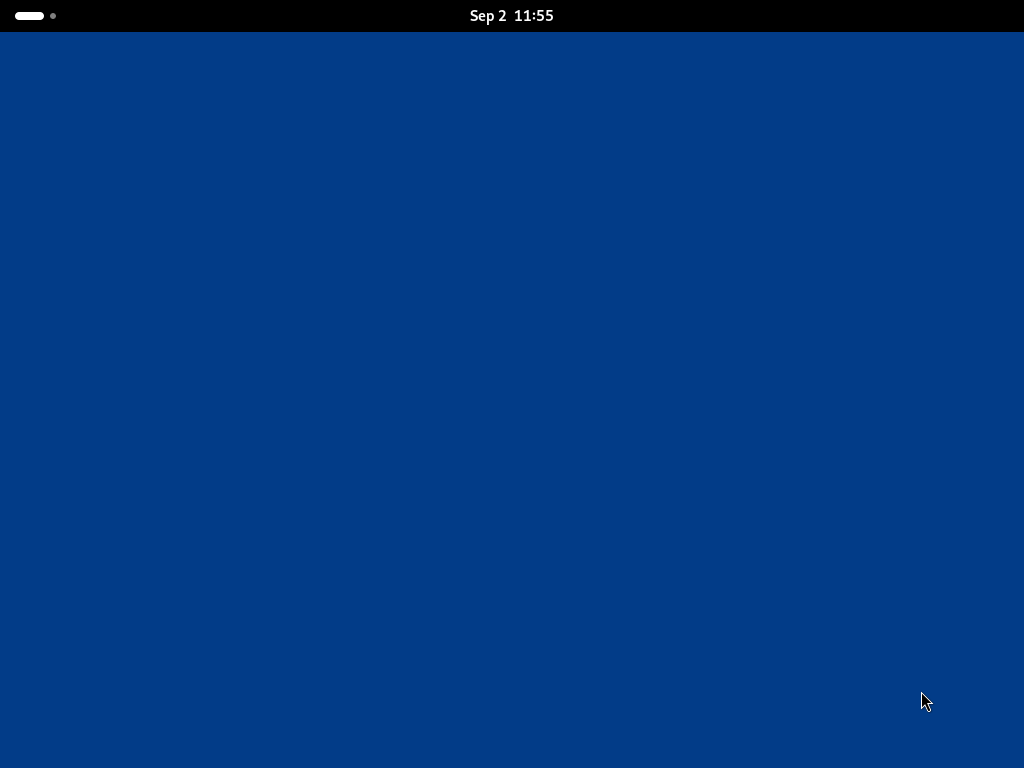
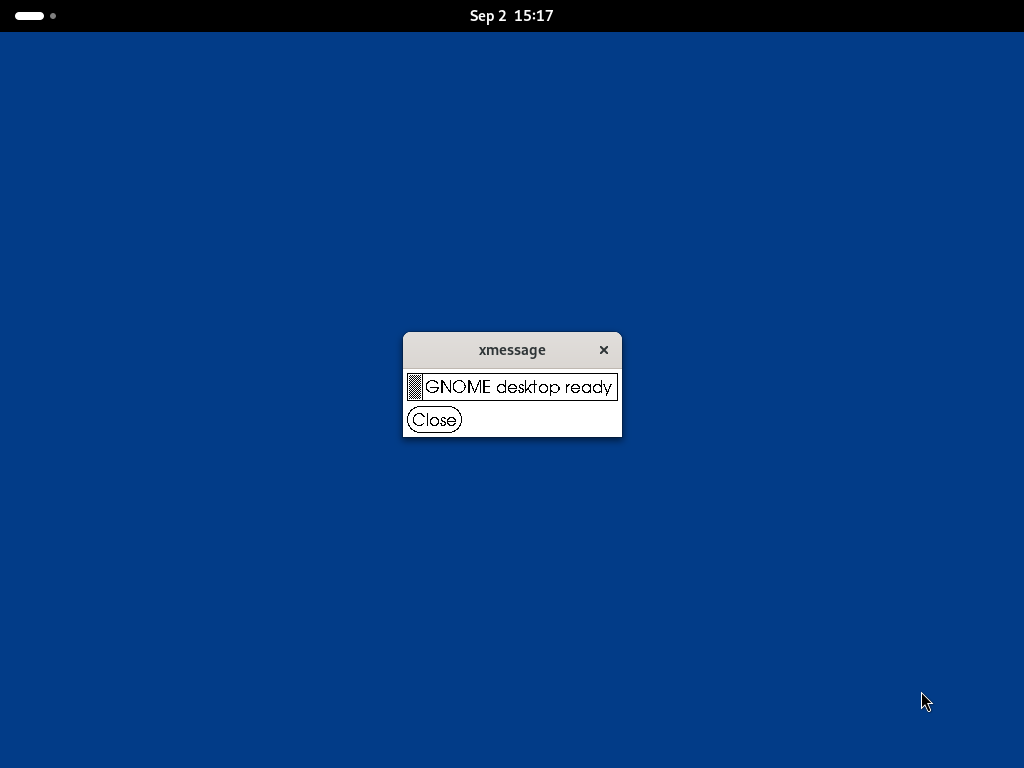
docs(agentbay): 更新 GNOME 应用启动验证截图

Changed region(s): [[0.375, 0.4062, 0.625, 0.5938], [0.5, 0.0, 0.5312, 0.0312]]

diff --git a/docs/en-US/01.FC Agent Sandbox/04.Features/14.Migration/2.AgentBay Linux Desktop Migration Guide.md b/docs/en-US/01.FC Agent Sandbox/04.Features/14.Migration/2.AgentBay Linux Desktop Migration Guide.md
@@ -297,9 +297,9 @@ exec dbus-run-session -- gnome-session --session=gnome
 
 On a headless Xvfb display, GNOME can enter the Activities (Launchpad-like) overview only after the Shell starts. The startup-only logic above sends Escape only during a bounded initialization window, so a newly created Sandbox opens on the normal desktop without user input. It is generic GNOME session initialization, not AgentBay or business-application configuration.
 
-The following screenshot is from a newly created Sandbox based on this Ubuntu + GNOME `start-desktop` example. The verification script sent no keyboard input; its first screenshot already showed the full desktop rather than the Activities overview:
+The following screenshot is from a newly created Sandbox based on this Ubuntu + GNOME `start-desktop` example. The verification script simulated no keyboard input; it starts the image's built-in X11 `xmessage` application on the full desktop, then captures the result. Both the desktop and application window are visible rather than the Activities overview:
 
-![A new Sandbox opens on the full GNOME desktop](../../../../../assets/en-US/agentbay-gnome-default-desktop.png)
+![A new Sandbox displays the full GNOME desktop and an xmessage application window](../../../../../assets/en-US/agentbay-gnome-default-desktop.png)
 
 The FC runtime also provides Custom Bootstrap for gatewayd to supervise extension processes such as desktop plug-ins and browser helper services. The following path is an example that you must replace. Enable it only after the image copies the matching script; omit both the `COPY` and `ENV` when no extension process is needed:
 

diff --git a/docs/zh-CN/01.云沙箱/04.功能说明/14.迁移/2.AgentBay Linux 桌面迁移指南.md b/docs/zh-CN/01.云沙箱/04.功能说明/14.迁移/2.AgentBay Linux 桌面迁移指南.md
@@ -291,9 +291,9 @@ exec dbus-run-session -- gnome-session --session=gnome
 
 在无头 Xvfb 环境中，GNOME 可能在 Shell 启动后才进入 Activities（类似 Launchpad）概览。上述启动阶段逻辑只在受限的初始化窗口内发送 Escape，因此新建 Sandbox 默认展示完整桌面，用户无需手动按键；它仅属于通用 GNOME 会话初始化，不包含 AgentBay 或业务应用配置。
 
-以下截图来自基于该 Ubuntu + GNOME `start-desktop` 示例新建的 Sandbox。验证脚本未发送键盘输入，首次截图已直接显示完整桌面，而非 Activities 概览：
+以下截图来自基于该 Ubuntu + GNOME `start-desktop` 示例新建的 Sandbox。验证脚本未模拟键盘输入；在完整桌面上启动镜像自带的 X11 应用 `xmessage` 后截图，确认桌面和应用窗口均正常显示，而非 Activities 概览：
 
-![新建 Sandbox 默认显示完整 GNOME 桌面](../../../../../assets/zh-CN/agentbay-gnome-default-desktop.png)
+![新建 Sandbox 显示完整 GNOME 桌面和 xmessage 应用窗口](../../../../../assets/zh-CN/agentbay-gnome-default-desktop.png)
 
 FC runtime 还提供 Custom Bootstrap，用于在 gatewayd 启动时托管桌面插件、浏览器辅助服务等扩展进程。以下路径是待替换的示例，只有在镜像已经复制对应脚本后才启用它；不需要扩展进程时，省略该 `COPY` 和 `ENV`：
 
